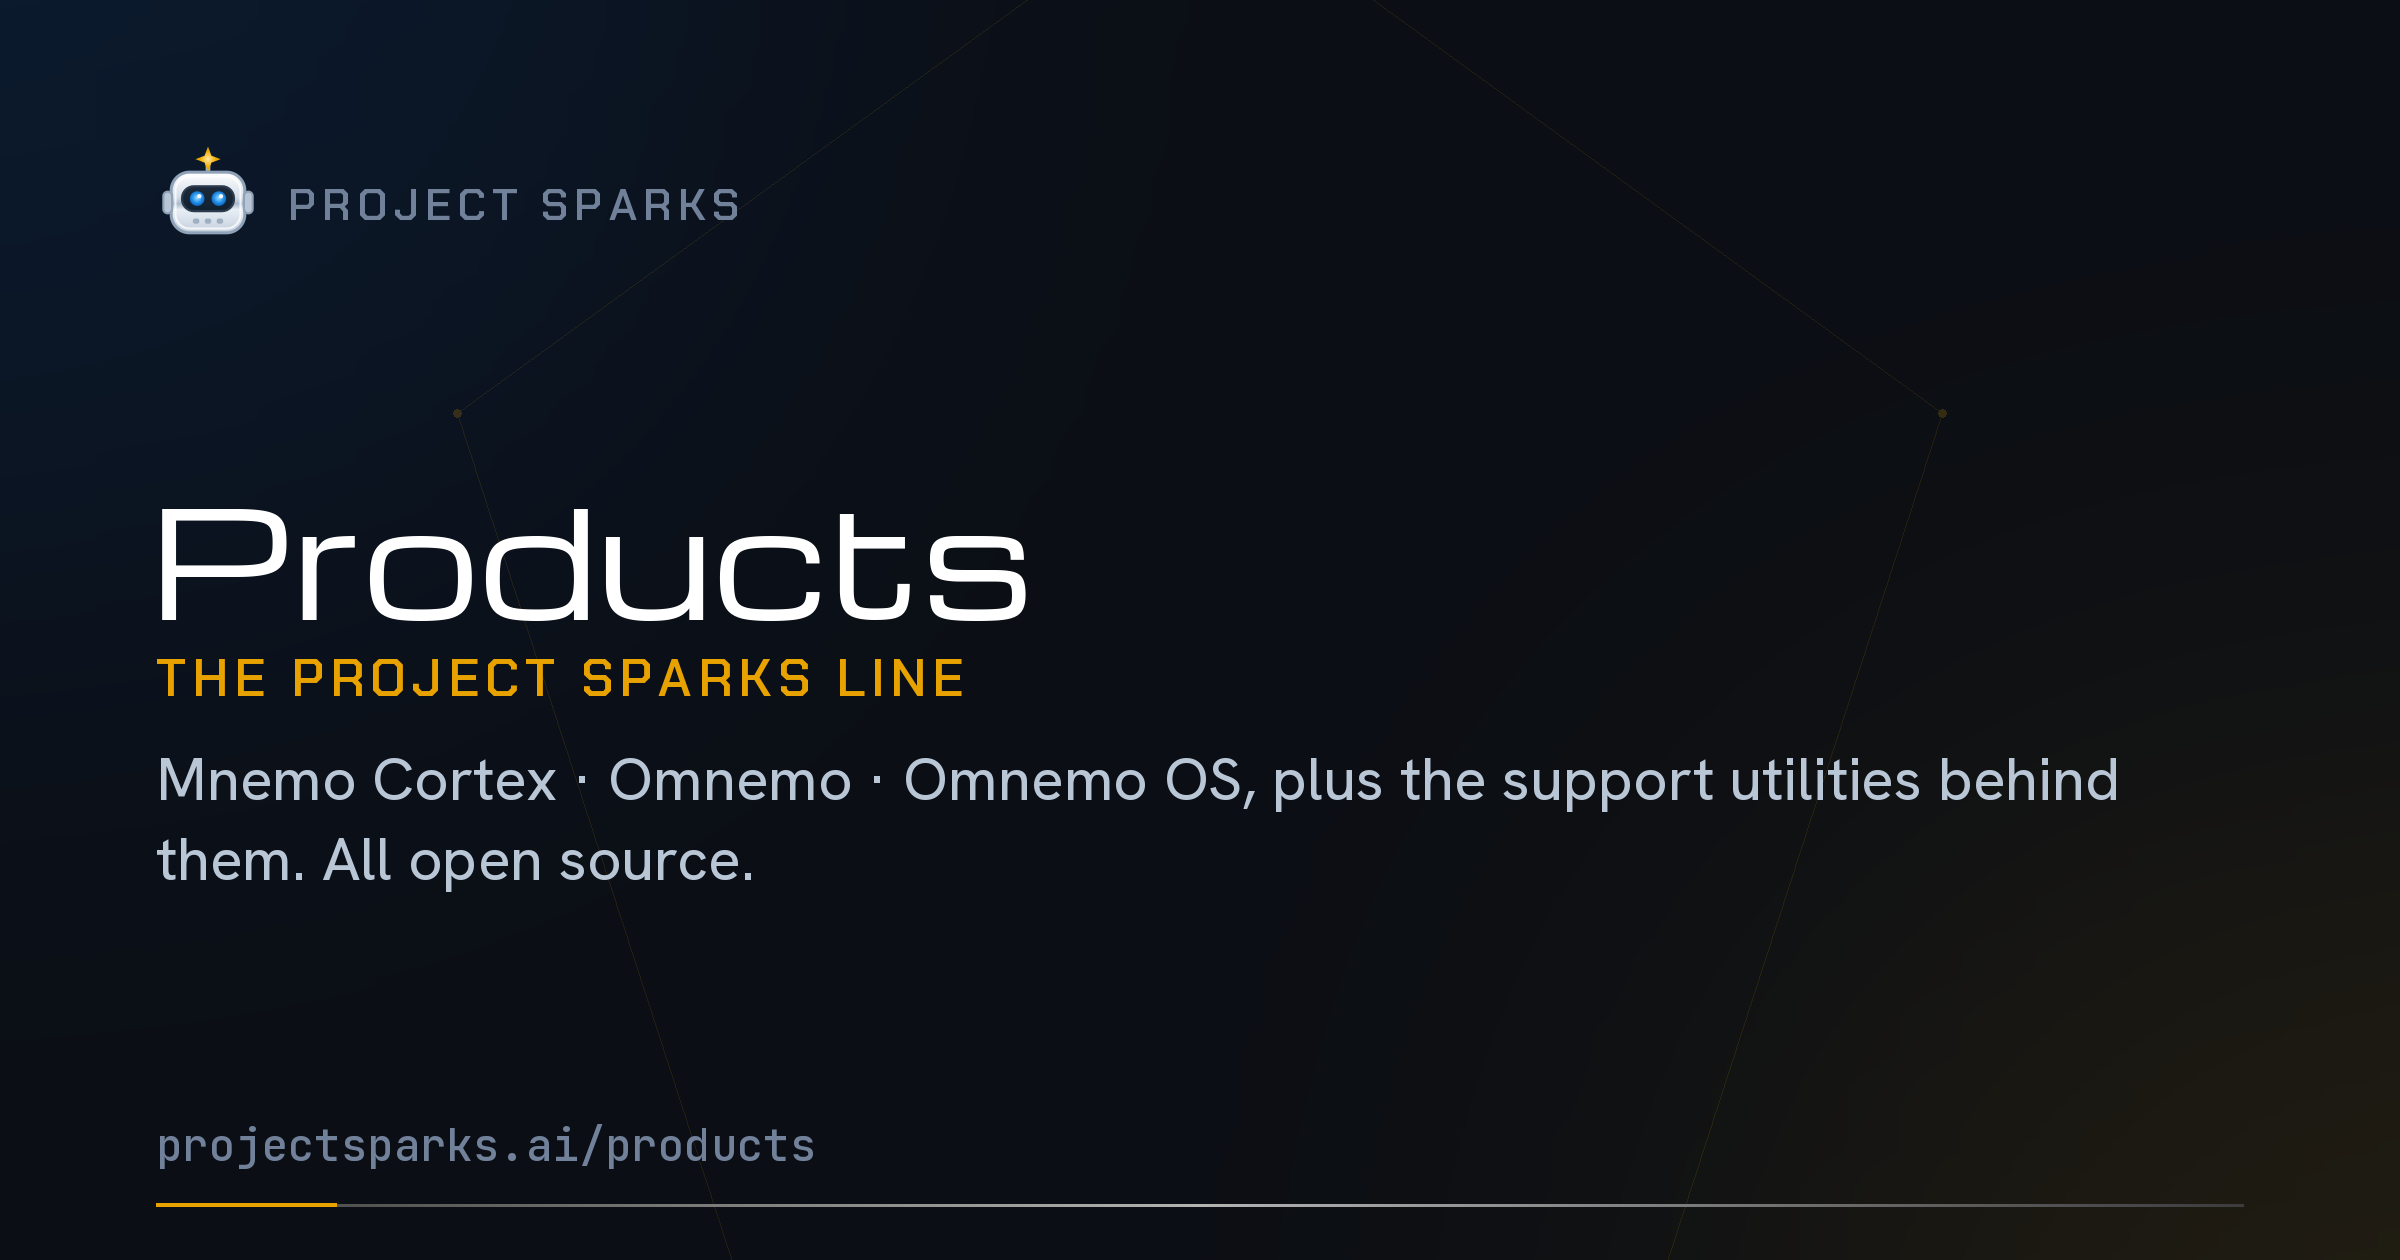
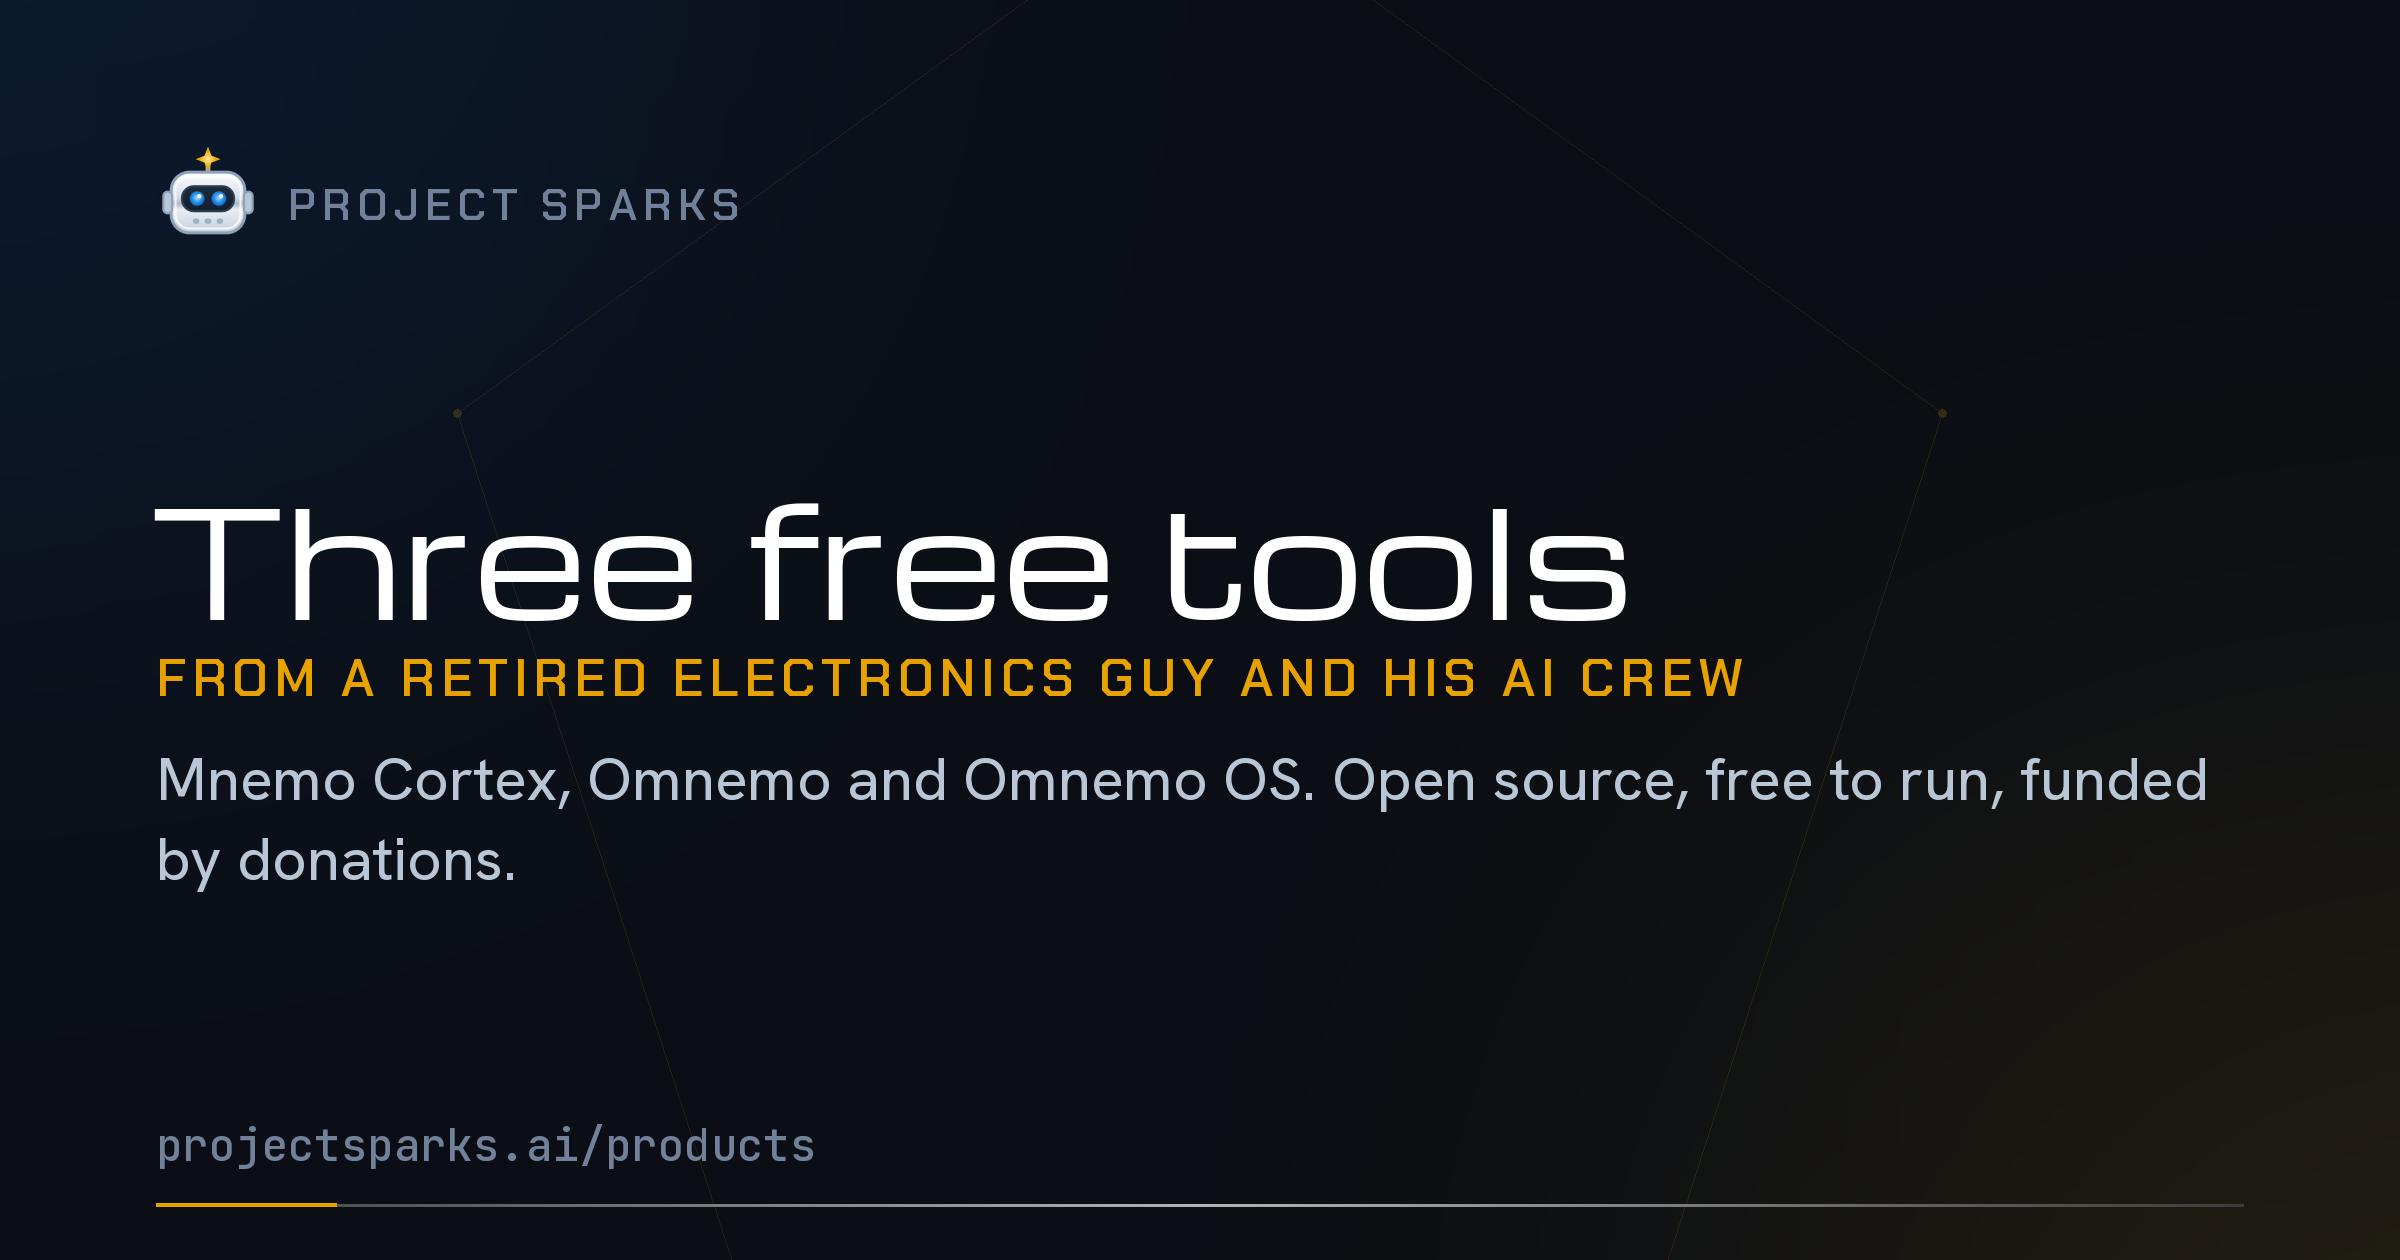
products: card headline in Guy's words — Three free tools from a retired electronics guy and his AI crew

Changed region(s): [[0.0625, 0.4024, 0.6875, 0.4952], [0.0625, 0.5881, 0.9375, 0.7119], [0.0625, 0.5262, 0.75, 0.5571]]

diff --git a/products/index.html b/products/index.html
@@ -5,7 +5,7 @@
 <meta name="viewport" content="width=device-width, initial-scale=1.0">
 <title>Products — Project Sparks</title>
 <meta name="description" content="The Project Sparks products: Mnemo Cortex (cognitive coprocessor with active memory), Omnemo (shared memory for Omarchy) and Omnemo OS (an easy-to-use desktop with memory built in). Plus two support utilities, Disco-Bus and Cortex Stick. All open source.">
-<meta property="og:title" content="Products — Project Sparks">
+<meta property="og:title" content="Three free tools from a retired electronics guy and his AI crew">
 <meta property="og:description" content="Three products — Mnemo Cortex, Omnemo, Omnemo OS — plus support utilities. Open-source AI memory, free to run, funded by donations.">
 <meta property="og:image" content="https://projectsparks.ai/products/og.png">
 <meta property="og:image:width" content="2400">
@@ -13,7 +13,7 @@
 <meta property="og:url" content="https://projectsparks.ai/products">
 <meta property="og:type" content="website">
 <meta name="twitter:card" content="summary_large_image">
-<meta name="twitter:title" content="Products — Project Sparks">
+<meta name="twitter:title" content="Three free tools from a retired electronics guy and his AI crew">
 <meta name="twitter:description" content="Three products — Mnemo Cortex, Omnemo, Omnemo OS — plus support utilities. Open-source AI memory, free to run, funded by donations.">
 <meta name="twitter:image" content="https://projectsparks.ai/products/og.png">
 <link rel="icon" href="/mnemo-cortex/favicon/favicon.ico" sizes="any">

diff --git a/tools/og-gen.py b/tools/og-gen.py
@@ -180,8 +180,8 @@ SITE = {
     "omnemo": dict(title="Omnemo", kicker="Memory for Omarchy",
                    tagline="One shared memory for every AI agent on the box. Save in one, recall in any.",
                    badge="FREE · OPEN SOURCE", title_size=92),
-    "products": dict(title="Products", kicker="The Project Sparks line",
-                     tagline="Mnemo Cortex · Omnemo · Omnemo OS, plus the support utilities behind them. All open source."),
+    "products": dict(title="Three free tools", kicker="From a retired electronics guy and his AI crew",
+                     tagline="Mnemo Cortex, Omnemo and Omnemo OS. Open source, free to run, funded by donations."),
     "about": dict(title="About", kicker="Project Sparks",
                   tagline="One maker and his AI agents, building open-source memory and tools from Half Moon Bay, California."),
     "stack": dict(title="The Stack", kicker="AI agent infrastructure",
